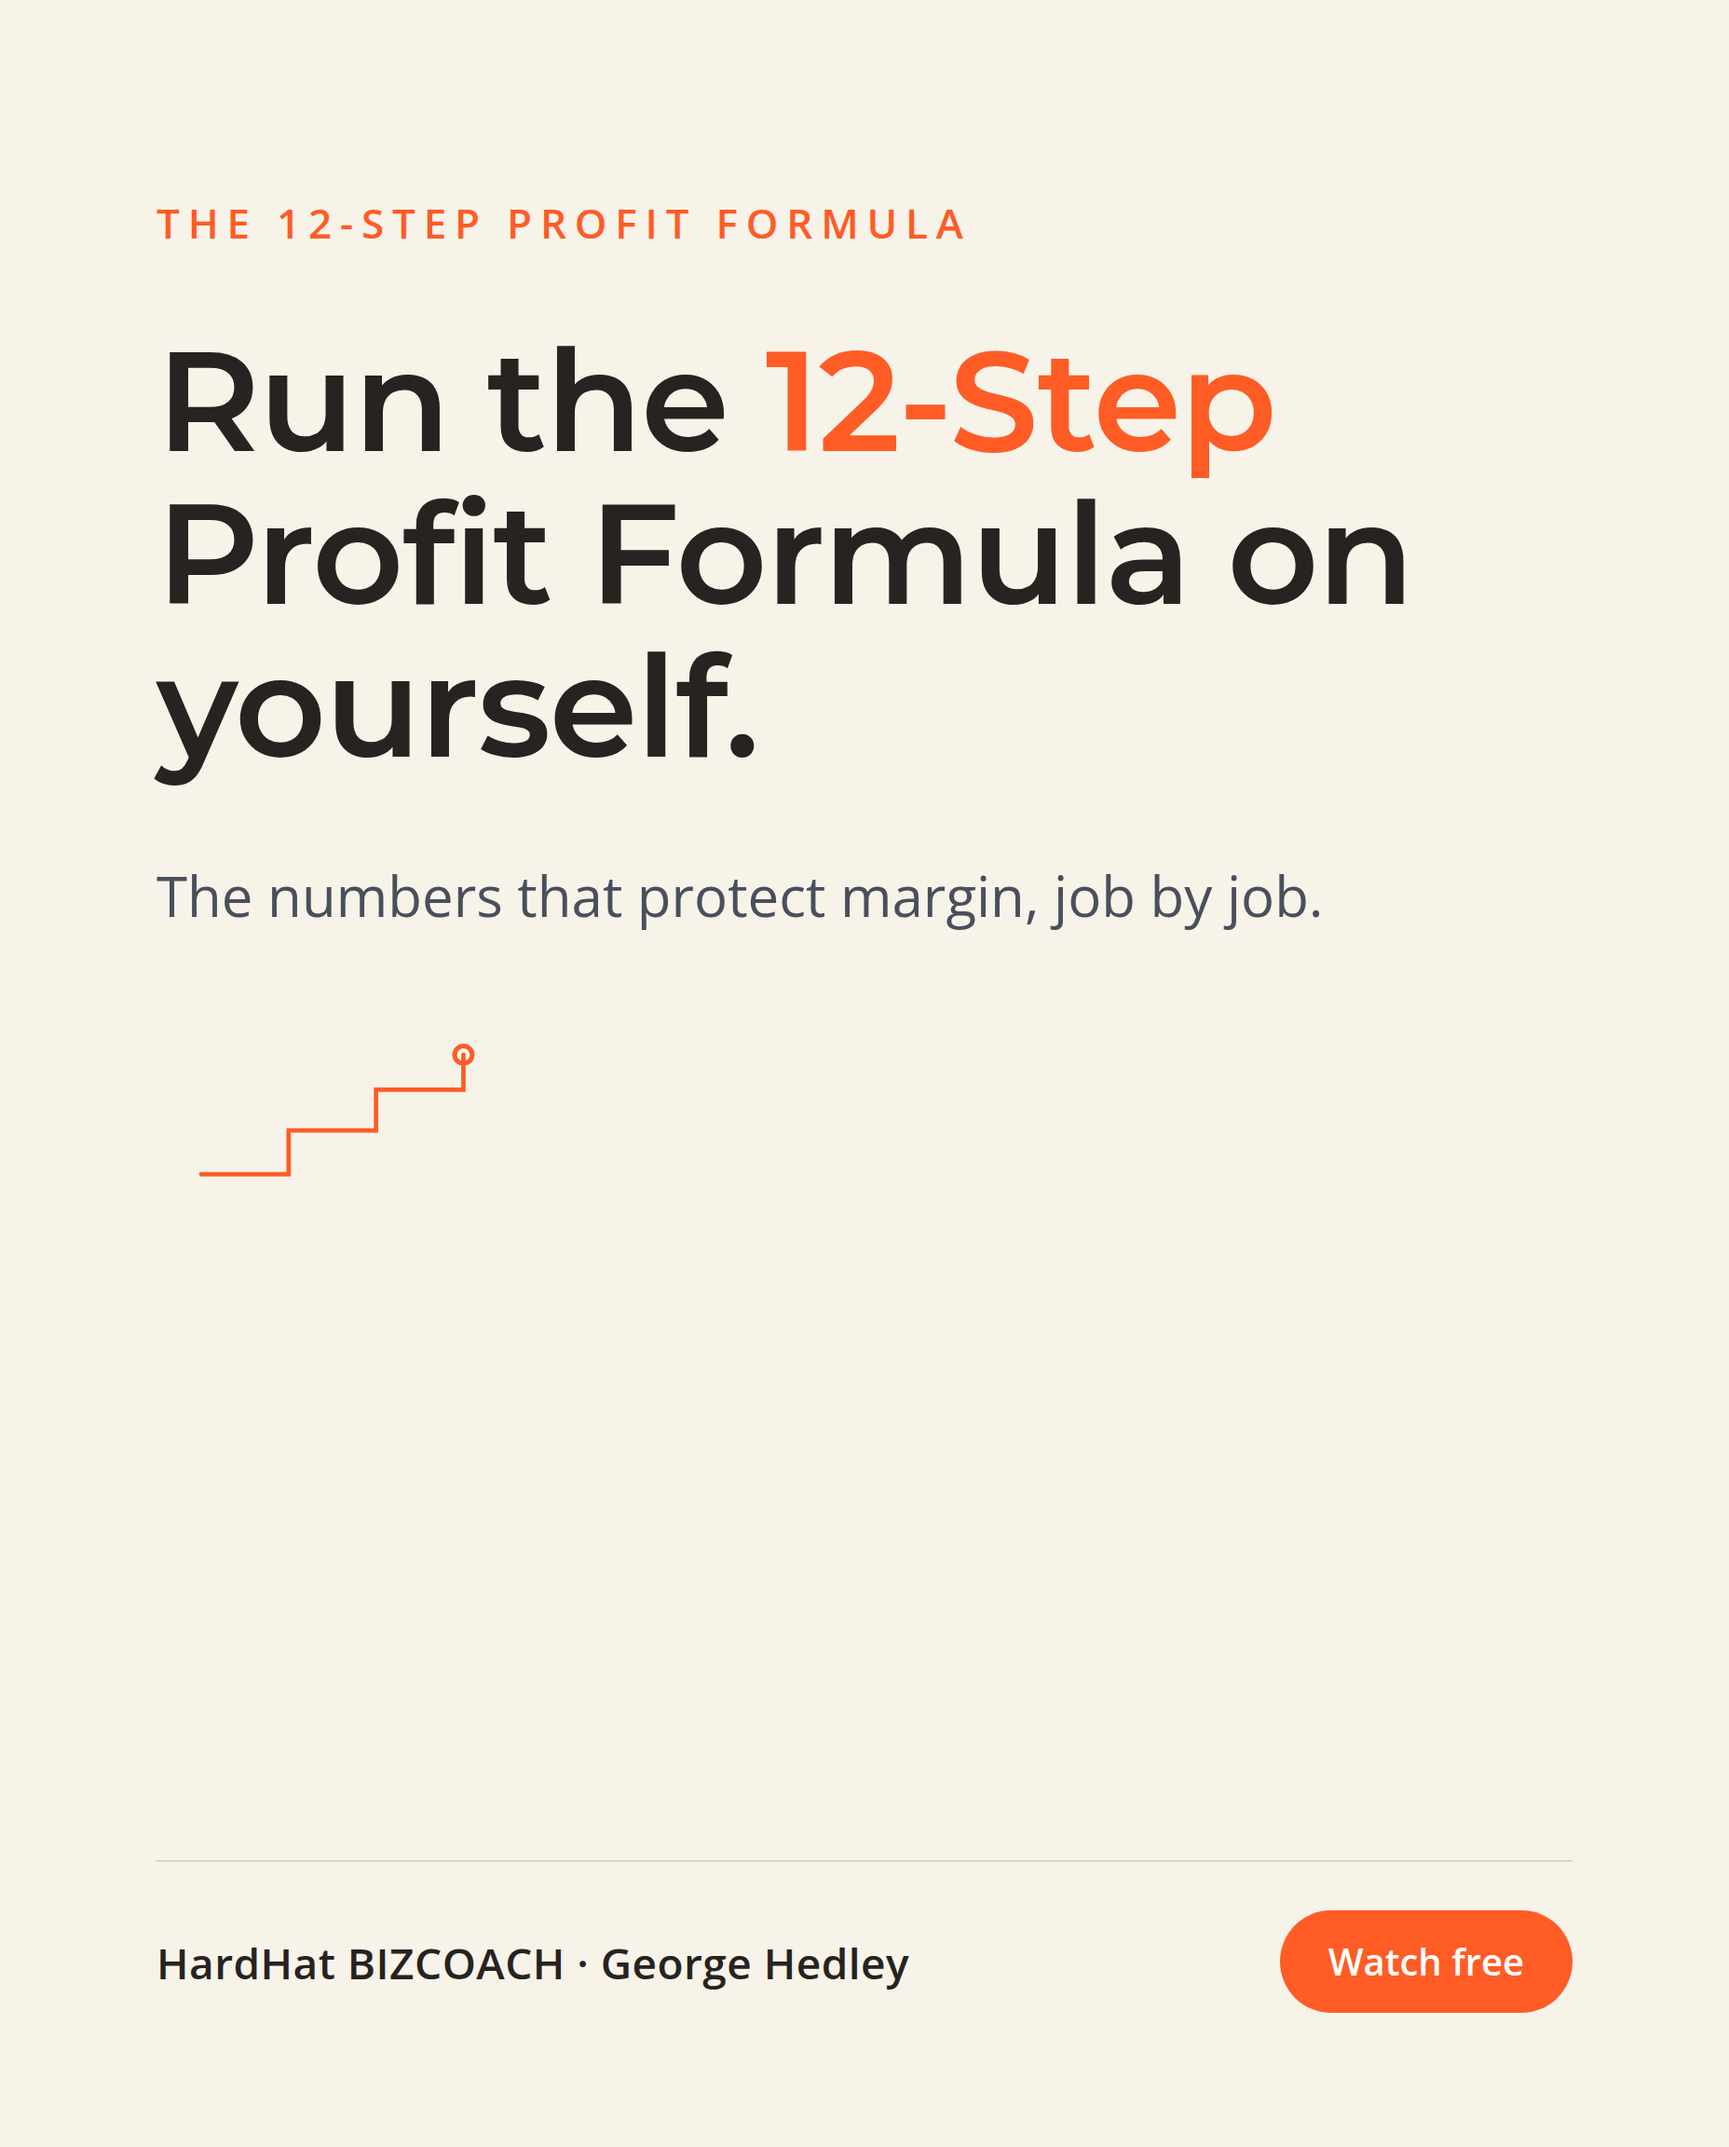
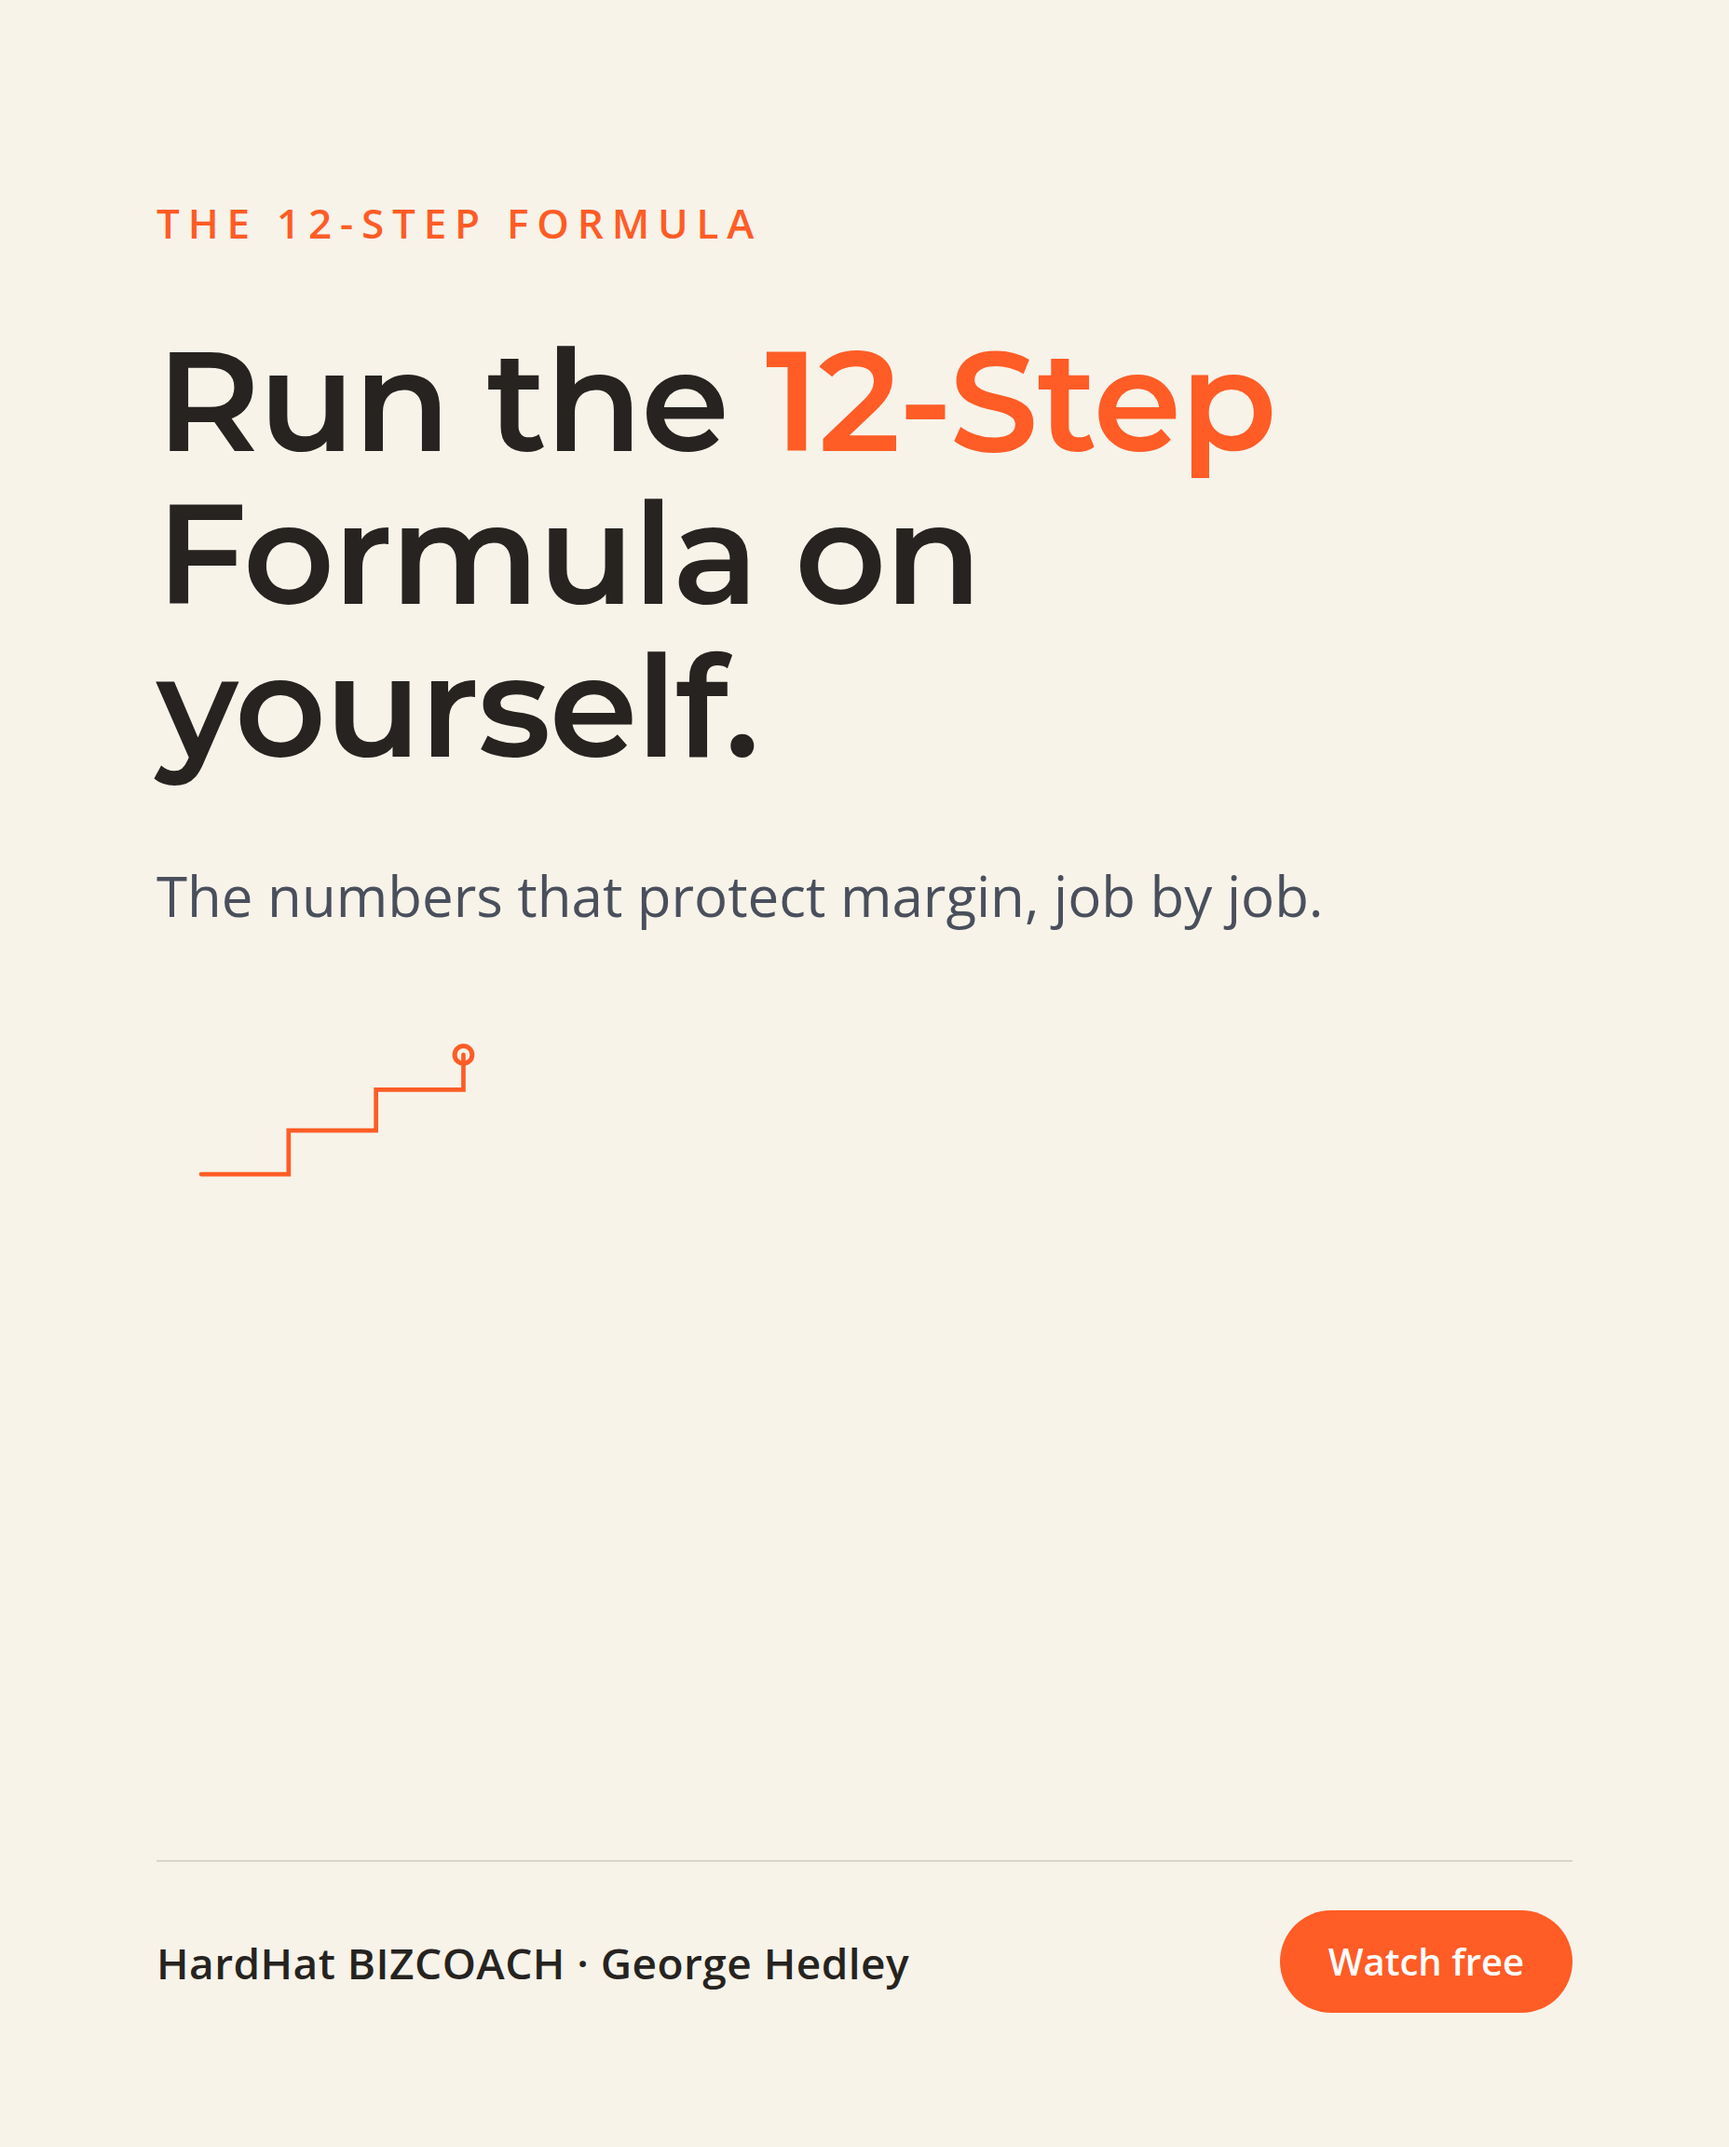
showcase: george-hedley

Changed region(s): [[0.0938, 0.2188, 0.8125, 0.2812], [0.3125, 0.0938, 0.5625, 0.125]]

diff --git a/george-hedley/index.html b/george-hedley/index.html
@@ -84,7 +84,7 @@
     <p>Built from the BIZ-BUILDER BLUEPRINT and the 12-Step Formula, written to stop a contracting-business owner mid-scroll.</p>
     <div class="ad-grid">
       <img src="/george-hedley/ad01.png" alt="Ad: Being a great builder isn't enough">
-      <img src="/george-hedley/ad02.png" alt="Ad: Run the 12-Step Profit Formula on yourself">
+      <img src="/george-hedley/ad02.png" alt="Ad: Run the 12-Step Formula on yourself">
       <img src="/george-hedley/ad03.png" alt="Ad: Stop running your business on guesswork">
       <img src="/george-hedley/ad04.png" alt="Ad: What the BIZ-BUILDER BLUEPRINT teaches">
     </div>
@@ -104,9 +104,9 @@
         <tr><td>Contractor registrations / month</td><td>37</td><td>60</td></tr>
         <tr><td>Show rate</td><td>30%</td><td>35%</td></tr>
         <tr><td>Masterclass viewers</td><td>11</td><td>21</td></tr>
-        <tr><td>Next-step rate (consultation / enrollment)</td><td>5%</td><td>8%</td></tr>
-        <tr><td>New coaching enrollments / month</td><td>1</td><td>1-2</td></tr>
-        <tr class="hl"><td>New revenue added each month</td><td>~$5,000 / mo (benchmark)</td><td>~$7,500-$10,000 / mo (benchmark)</td></tr>
+        <tr><td>Next-step rate (consultation / enrollment)</td><td>5%</td><td>10%</td></tr>
+        <tr><td>New coaching enrollments / month</td><td>1</td><td>2</td></tr>
+        <tr class="hl"><td>New revenue added each month</td><td>~$5,000 / mo (benchmark)</td><td>~$10,000 / mo (benchmark)</td></tr>
       </tbody>
     </table>
     <p class="fn">The revenue row uses a $5,000 conservative benchmark for a high-ticket contractor-coaching mastermind, an estimate flagged here and in the email, not your documented price. Even at that floor, one enrollment covers close to a full month of spend. Your free consultation and BIZSCHOOL stay exactly as they are.</p>
